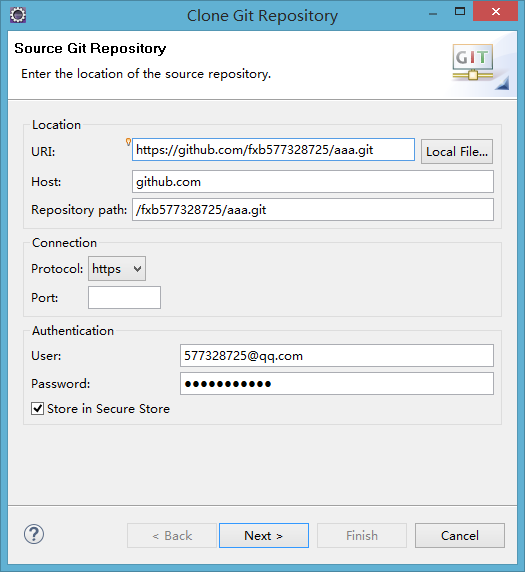
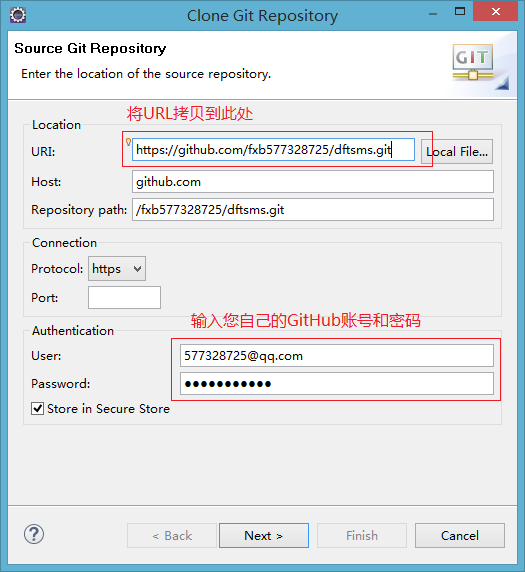
README更新

diff --git a/README.md b/README.md
@@ -45,48 +45,81 @@
 1. 拷贝当前项目的web URL：[https://github.com/fxb577328725/dftsms.git](https://github.com/fxb577328725/dftsms.git)
 2. 打开git透视图：Window -> perspective -> Open perspective -> Other(其实最简单的是Eclipse左上角的快捷方式)
 3. 将项目克隆下来：选中Clone a Git repository,然后输入URL，以及自己的账号密码，下一步，直到最后可选择性的修改保存路径，并保存即可。
-4. 将项目导入Eclipse：在git透视图中选中克隆项目 -> 右击 -> Import Project ,然后直接finish即可。然后可以切换到Java或JavaEE透视图，即可看到导入的项目
+4. 将项目导入Eclipse：在git透视图中选中克隆项目 -> 右击 -> Import Project ,然后直接finish即可。然后可以切换到Java或JavaEE透视图，即可看到导入的项目。
 5. 为web模块添加server依赖：在web模块上右击 -> Build Path -> Add Library -> 选中Server Runtime -> 选中Tomcat -> finish
 6. 为了保险可以更新一下Maven项目：项目上右击 -> Maven -> Update Project
 
+注意：在Import Project的时候，因为版本差异可能会导致其界面有所不同，我上面的过程是针对Eclipse neon版本的，如果您使用的是稍早些的版本，会出现有三个选项的界面。如果是这种情况，可以参考下面的《**稍早版本导入操作**》
+
 ***************
 
-**图片演示**
+##图片演示##
 
 说明：省略了一些没必要展示的地方，省略部分基本上就是下一步或者finish即可。
 
-第一步：
+第一步：打开透视图管理界面
 
 ![图片01](https://github.com/fxb577328725/dftsms/blob/master/PictureOf_README/tu_01.png)
 
-第二步：
+第二步：找到git透视图
 
 ![图片02](https://github.com/fxb577328725/dftsms/blob/master/PictureOf_README/tu_02.png)
 
-第三步：
+注意：其实最简单的方式就是在左上角有一个快捷方式，其图标的右上角是一个加号，点开就会出现透视图管理界面。
+
+第三步：点击clone(克隆)链接
 
 ![图片03](https://github.com/fxb577328725/dftsms/blob/master/PictureOf_README/tu_03.png)
 
-第四步：
+第四步：输入该项目的URL
 
 ![图片04](https://github.com/fxb577328725/dftsms/blob/master/PictureOf_README/tu_04.png)
 
-第五步：
+第五步：设置克隆项目存放位置
 
 ![图片05](https://github.com/fxb577328725/dftsms/blob/master/PictureOf_README/tu_05.png)
 
-第六步：
+第六步：导入项目到IDE环境中
 
 ![图片06](https://github.com/fxb577328725/dftsms/blob/master/PictureOf_README/tu_06.png)
 
-第七步：
+注：此处会因为Eclipse的版本有所差异，如果用的是比较新的版本的Eclipse时候会是下面的界面，如果使用较早的Eclipse会进入另外的一种界面，下面会详细介绍。
+
+第七步：选择导入详细信息(该步骤选择默认即可)
 
 ![图片07](https://github.com/fxb577328725/dftsms/blob/master/PictureOf_README/tu_07.png)
 
-第八步：
+第八步：为web模块添加环境
 
 ![图片08](https://github.com/fxb577328725/dftsms/blob/master/PictureOf_README/tu_08.png)
 
-第九步：
+第九步：选择Server Runtime
 
 ![图片08](https://github.com/fxb577328725/dftsms/blob/master/PictureOf_README/tu_09.png)
+
+第十步：选择对应的Web容器(此处是Tomcat 8.0)
+
+![图片08](https://github.com/fxb577328725/dftsms/blob/master/PictureOf_README/tu_10.png)
+
+***************
+
+##稍早版本导入操作##
+
+如果Eclipse的版本比较，就会出现下面的界面，如下：
+
+![图片08](https://github.com/fxb577328725/dftsms/blob/master/PictureOf_README/tu_11.png)
+
+注意：这一步骤的三种选项都无法正常导入，我们可以直接关闭这一窗口，进入Java或Java EE透视图即可。然后就像导入一个已存在的Maven项目即可。
+
+<1> File -> import 打开导入界面
+
+![图片08](https://github.com/fxb577328725/dftsms/blob/master/PictureOf_README/tu_12.png)
+
+<2> 选中Existing Maven Project选项
+
+![图片08](https://github.com/fxb577328725/dftsms/blob/master/PictureOf_README/tu_13.png)
+
+<4> 找到克隆下来的项目，并Finish即可
+
+![图片08](https://github.com/fxb577328725/dftsms/blob/master/PictureOf_README/tu_14.png)
+
